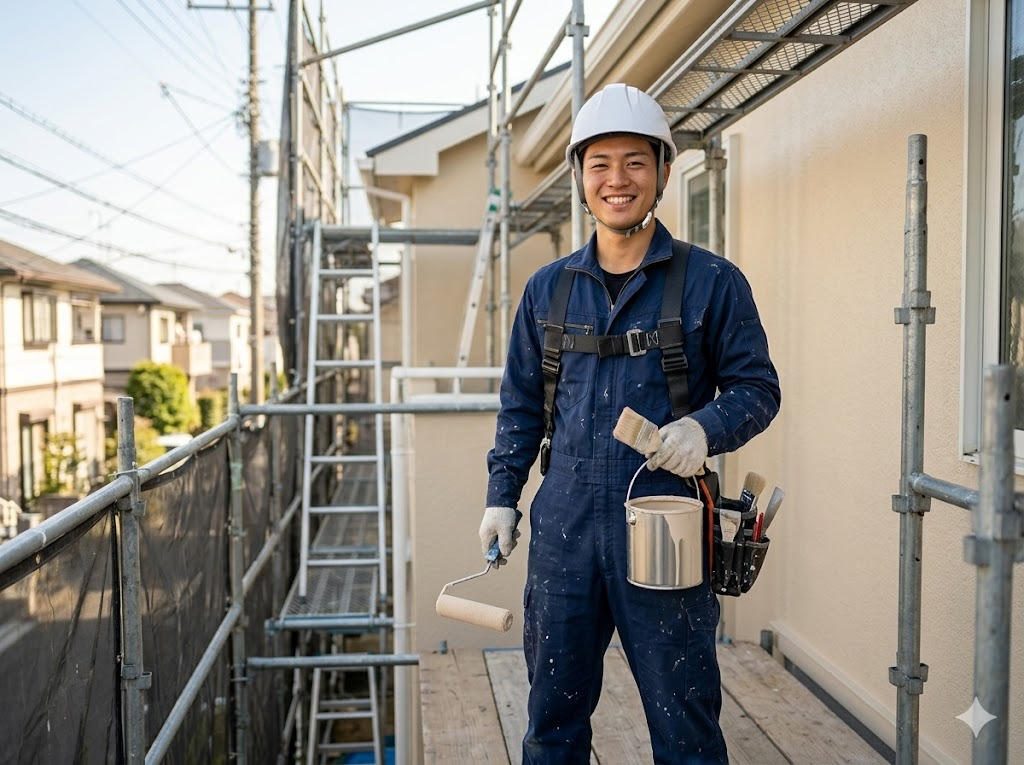
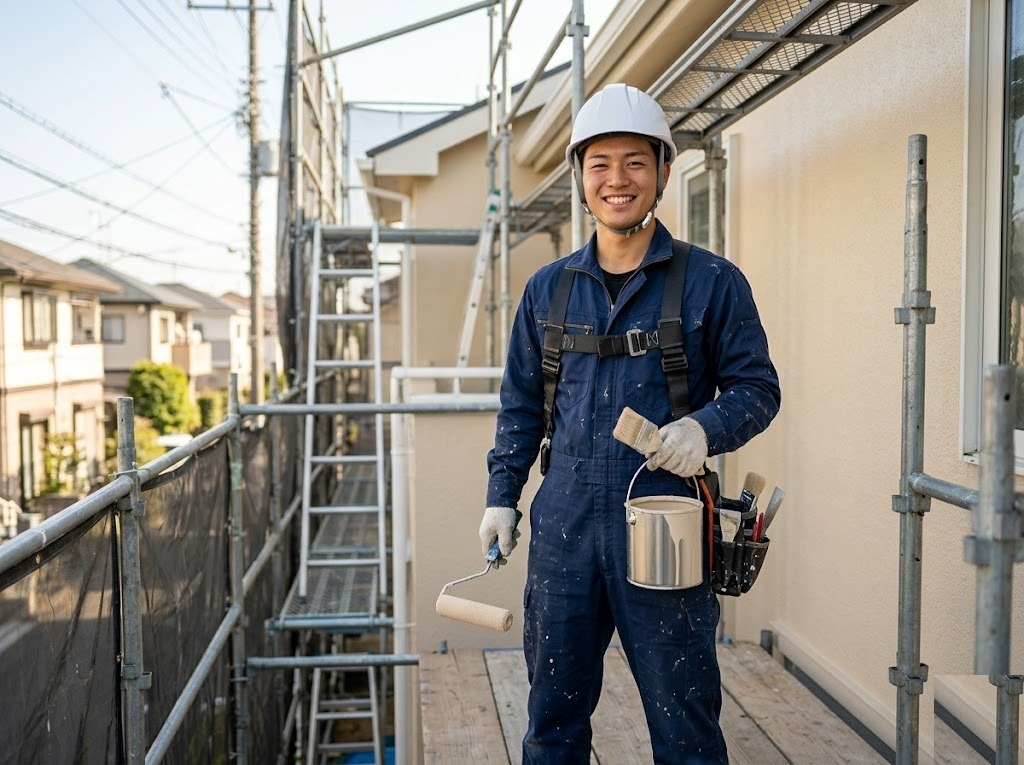
Add files via upload

Changed region(s): [[0.9062, 0.8719, 1.0, 1.0]]

diff --git a/public/README_AI画像について.md b/public/README_AI画像について.md
@@ -1,0 +1,63 @@
+# まつ塗研 HP用 AI生成画像
+
+生成日: 2026年4月22日（4/23更新：Geminiロゴ削除・SLIDE02を刷毛版へ差し替え）
+生成AI: Google Gemini (Nano Banana 2 / Gemini Image)
+対象HP: https://matsu-token.vercel.app/
+
+## 後処理について
+
+Gemini画像の右下に表示される透かし（きらめき型の Gemini ロゴ）は、Python Pillow を使用して周辺ピクセル（ロゴ左側の領域）でパッチ上書きし削除済みです。主要被写体（人物・住宅）に影響しない範囲で処理しています。
+
+## ライセンスについて
+
+これらの画像は Google Gemini（個人/Pro アカウント）で生成したAI画像です。
+**商用利用の可否は生成時点のGemini/Googleの利用規約に従ってください**。
+ホームページに使用する前に、Google Geminiの最新の利用規約（https://policies.google.com/terms/generative-ai）をご確認ください。
+
+## ファイル一覧
+
+### メインビジュアル（ヒーロースライダー用）
+
+| ファイル名 | 説明 | 解像度 | 用途 |
+|---|---|---|---|
+| SLIDE01_職人ローラー外壁塗装.jpg | ネイビー作業着の日本人男性職人がローラーで白く外壁塗装しているシーン | 1024×572 | トップページのSLIDE IMAGE 1 |
+| SLIDE02_屋根塗装刷毛.jpg | ネイビー作業着の職人が屋根の上で刷毛（ブラシ）を使って手作業で屋根塗装している姿 | 1024×572 | トップページのSLIDE IMAGE 2 |
+| SLIDE03_工事現場全景.jpg | 足場が組まれた塗装工事中の住宅全景 | 1024×572 | トップページの追加スライド |
+
+### 会社紹介セクション（ABOUT）
+
+| ファイル名 | 説明 | 解像度 | 用途 |
+|---|---|---|---|
+| ABOUT01_ベテラン職人ポートレート.jpg | 50代の日本人ベテラン塗装職人が住宅街の路地で腕組みして微笑むポートレート | 1024×765 | ABOUT IMAGE 1 |
+| ABOUT02_チーム作業.jpg | 2人の日本人職人が足場で協力して外壁塗装作業をしているシーン | 1024×572 | ABOUT IMAGE 2 |
+| ABOUT03_塗装完了住宅.jpg | 塗装が完了した美しい日本の住宅（夕方の黄金の光、庭付き） | 1024×765 | ABOUT IMAGE 3 |
+
+### 採用情報セクション（RECRUIT）
+
+| ファイル名 | 説明 | 解像度 | 用途 |
+|---|---|---|---|
+| RECRUIT01_若手職人笑顔.jpg | 20代の日本人若手職人が現場でローラーとペンキ缶を持ち笑顔で立つ姿 | 1024×765 | RECRUIT IMAGE 1 |
+| RECRUIT02_チーム集合写真.jpg | ベテラン・中堅・若手の3人が塗装完了住宅の前で達成感ある集合写真 | 1024×765 | RECRUIT IMAGE 2 |
+
+## 画像サイズについて
+
+- 全画像とも1024px幅のJPEG。解像度は4K/ヒーロー用途としては物足りない可能性あり。
+- より大きな解像度が必要な場合は、AI画像の「アップスケーラー」ツール（Topaz Gigapixel, Upscayl 等）で2〜4倍に引き伸ばすことを推奨。
+- HP用（Next.js + next/image の最適化）であれば現状でも十分使用可能。
+
+## プロンプトの特徴
+
+全画像とも以下のプロンプト要素を含めて生成しました：
+
+- 日本人男性職人（女性・海外モデル除外）
+- ネイビーブルーの作業着で統一感
+- **文字・ロゴ・看板・ブランド名を画像に含めない**（他社名などのリスク回避）
+- 自然光、プロ広告写真風のテイスト
+- 信頼感・誠実さが伝わる表情
+
+## 注意事項と使用上の推奨
+
+1. **AI生成画像の明記を検討**：HPフッターや会社概要ページで「イメージ画像」と明記するのが望ましい（一般的な慣行）。
+2. **実写への置き換えを推奨**：長期運用を考えると、実際の職人・現場写真に置き換えることを強く推奨。AI画像は仮運用として位置づけるのが安全です。
+3. **顔の細部**：AI生成画像の顔は実在しない合成顔のため、プライバシー問題は発生しませんが、不自然な手指・装備などがあれば差し替えてください。
+4. **ハルシネーション対策**：作業着や道具に実在しないブランドロゴらしきものが写り込んでいないか、必ず目視確認してください。
